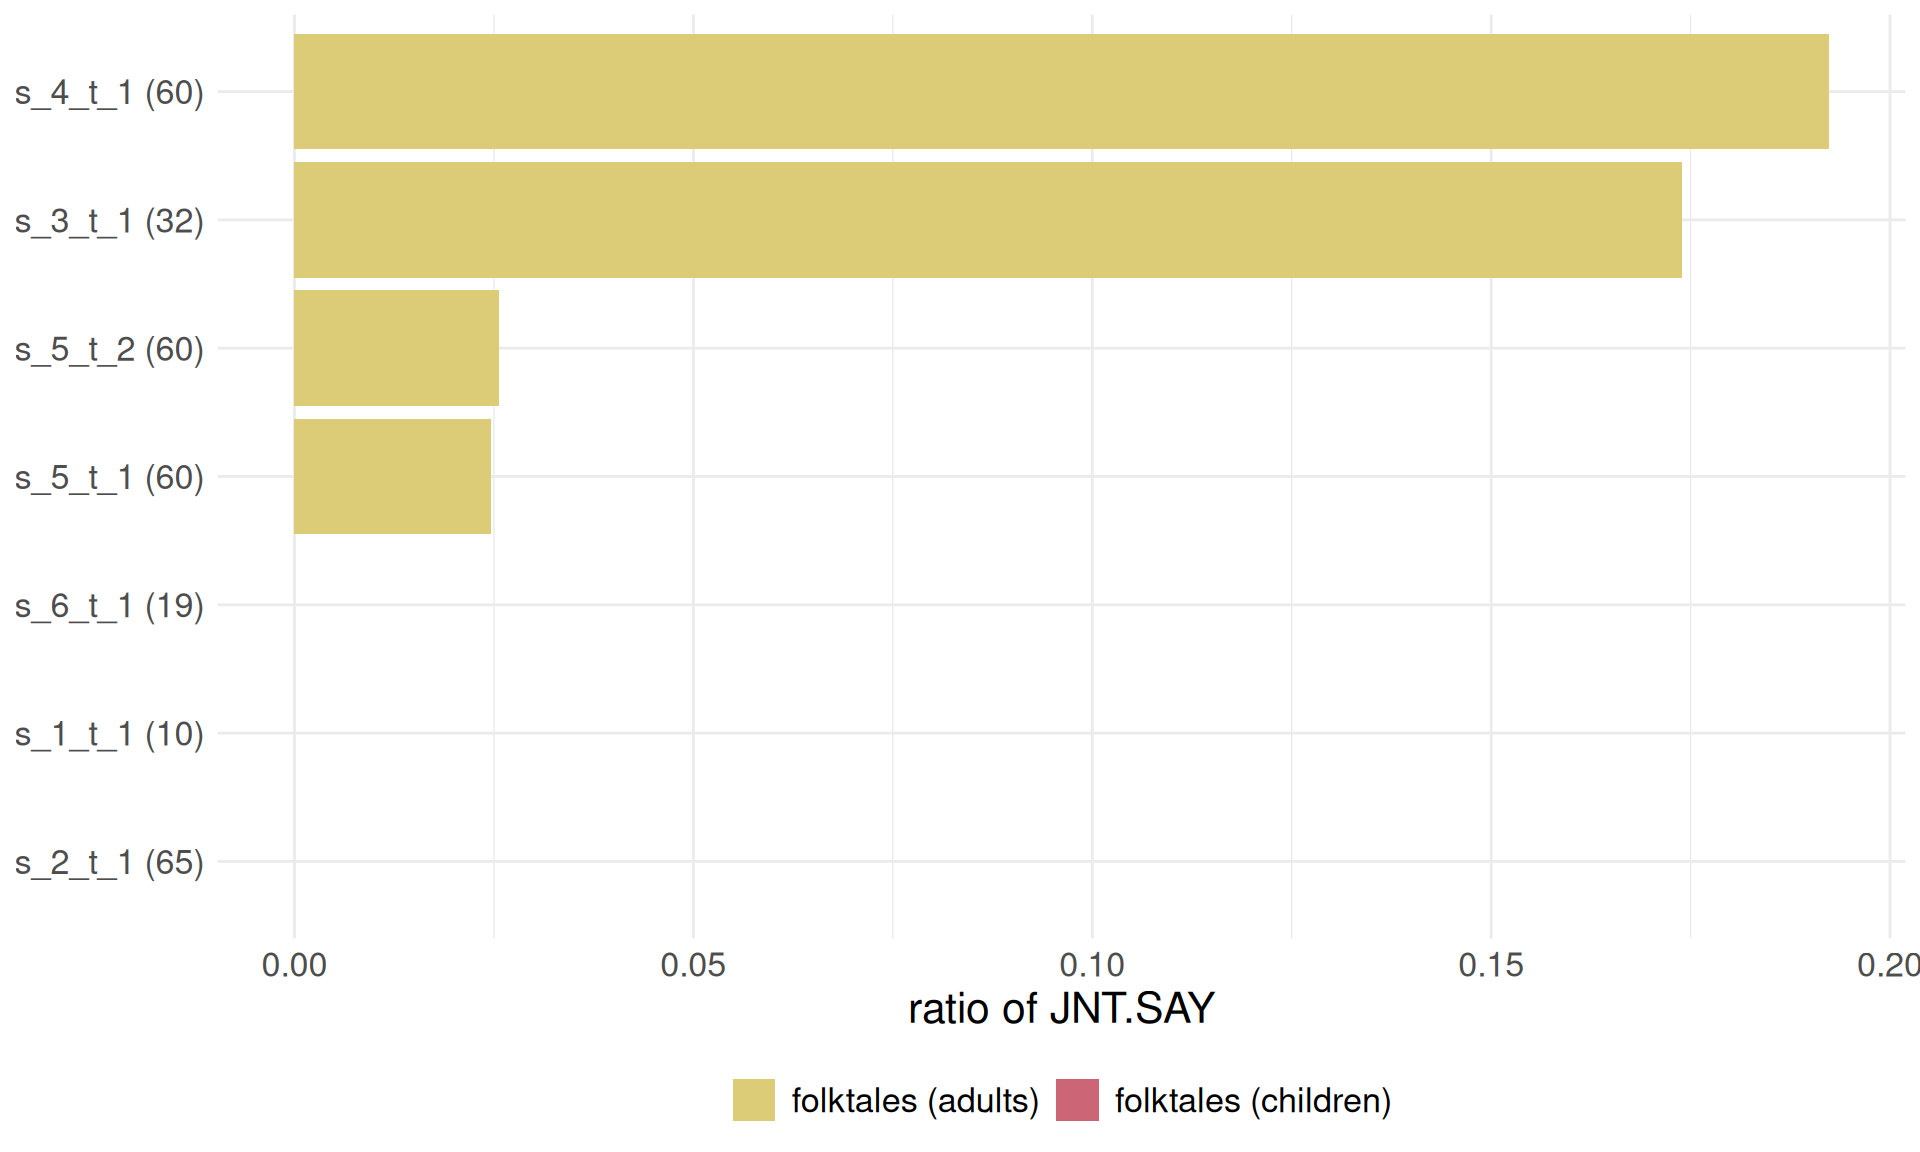
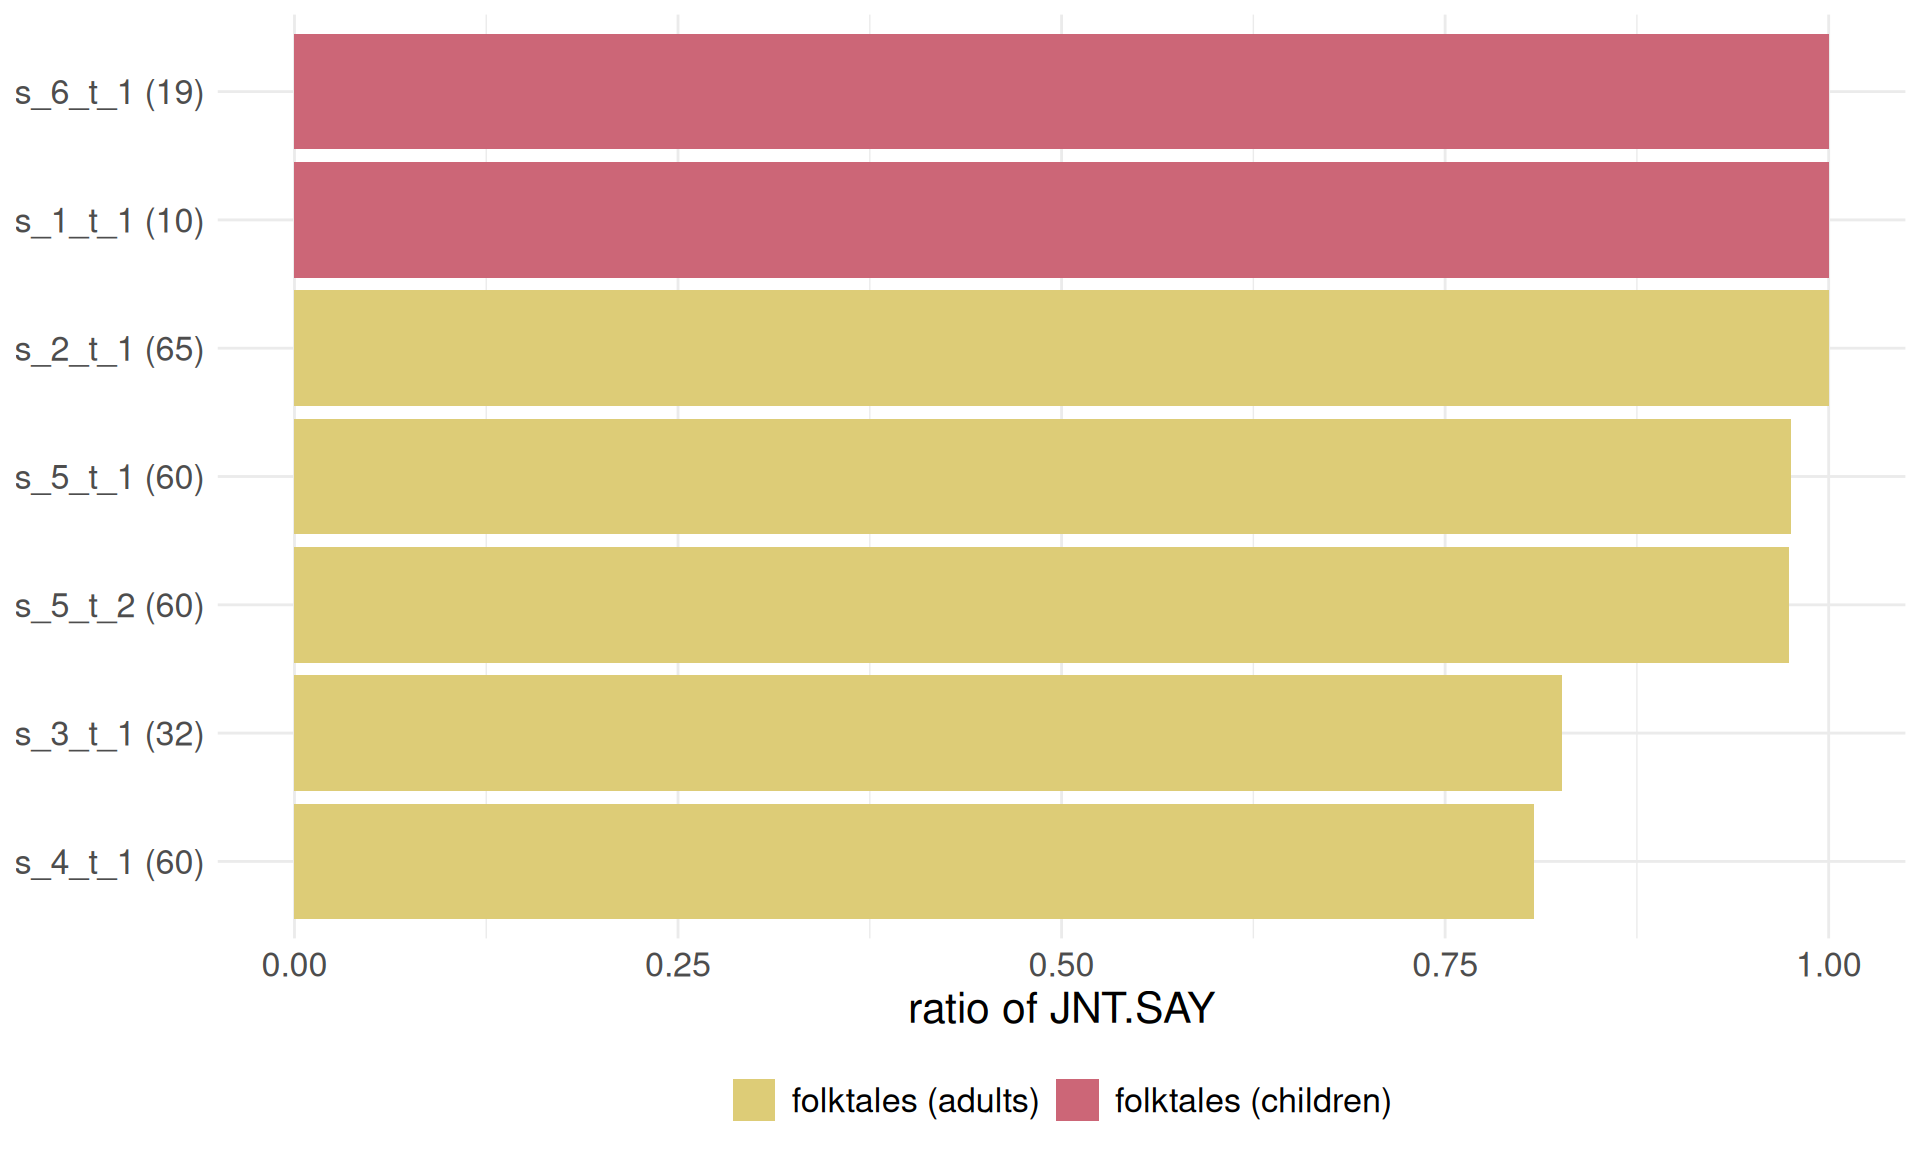
some cleaning

diff --git a/for_the_paper.html b/for_the_paper.html
@@ -1568,7 +1568,7 @@ pre > code.sourceCode > span > a:first-child::before { text-decoration: underlin
 <span id="cb45-2"><a href="#cb45-2" aria-hidden="true" tabindex="-1"></a>  <span class="fu">select</span>(new_source, age, group_var, chunk_structure) <span class="sc">|&gt;</span> </span>
 <span id="cb45-3"><a href="#cb45-3" aria-hidden="true" tabindex="-1"></a>  <span class="fu">mutate</span>(<span class="at">jnt_say =</span> <span class="fu">str_count</span>(chunk_structure, <span class="st">"JNT</span><span class="sc">\\</span><span class="st">.SAY"</span>),</span>
 <span id="cb45-4"><a href="#cb45-4" aria-hidden="true" tabindex="-1"></a>         <span class="at">quot =</span> <span class="fu">str_count</span>(chunk_structure, <span class="st">"QUOT"</span>),</span>
-<span id="cb45-5"><a href="#cb45-5" aria-hidden="true" tabindex="-1"></a>         <span class="at">ratio =</span> jnt_say<span class="sc">/</span>(quot<span class="sc">+</span>jnt_say),</span>
+<span id="cb45-5"><a href="#cb45-5" aria-hidden="true" tabindex="-1"></a>         <span class="at">ratio =</span> quot<span class="sc">/</span>(quot<span class="sc">+</span>jnt_say),</span>
 <span id="cb45-6"><a href="#cb45-6" aria-hidden="true" tabindex="-1"></a>         <span class="at">ratio =</span> <span class="fu">if_else</span>(<span class="fu">is.nan</span>(ratio), <span class="dv">0</span>, ratio)) <span class="sc">|&gt;</span> </span>
 <span id="cb45-7"><a href="#cb45-7" aria-hidden="true" tabindex="-1"></a>  <span class="fu">arrange</span>(ratio) <span class="sc">|&gt;</span> </span>
 <span id="cb45-8"><a href="#cb45-8" aria-hidden="true" tabindex="-1"></a>  <span class="fu">mutate</span>(<span class="at">new_source =</span> <span class="fu">str_c</span>(new_source, <span class="st">" ("</span>, age, <span class="st">")"</span>),</span>
